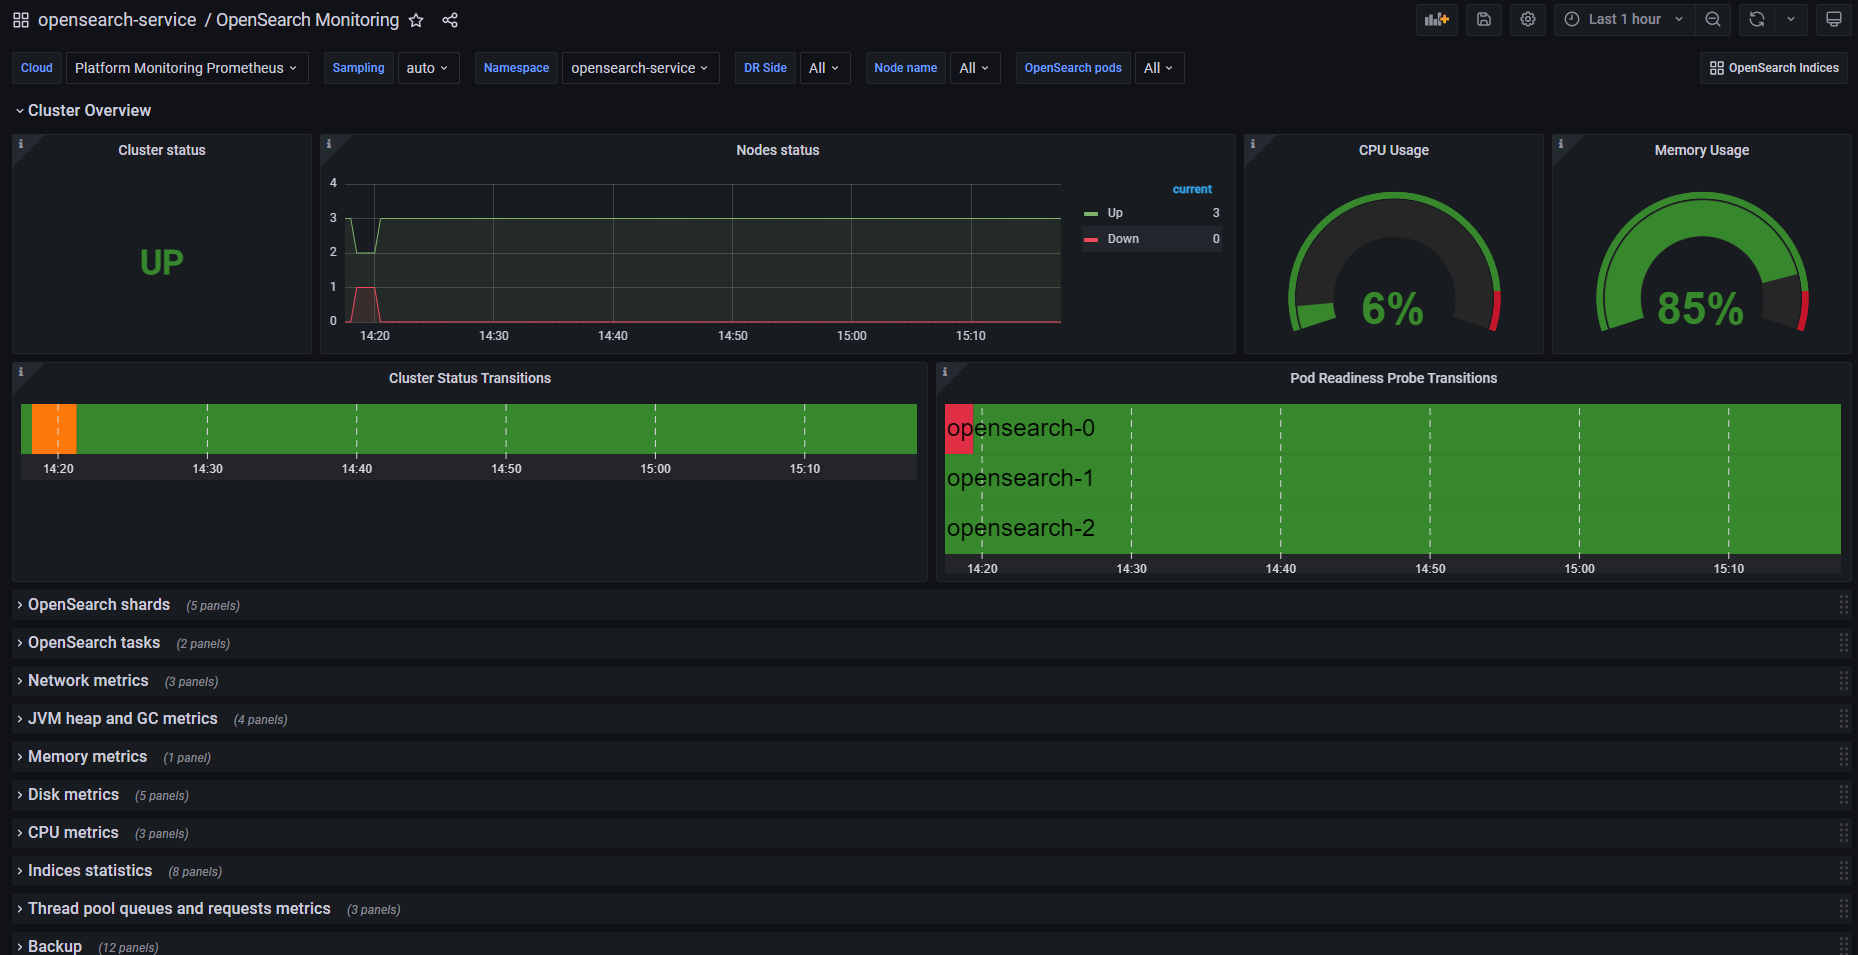
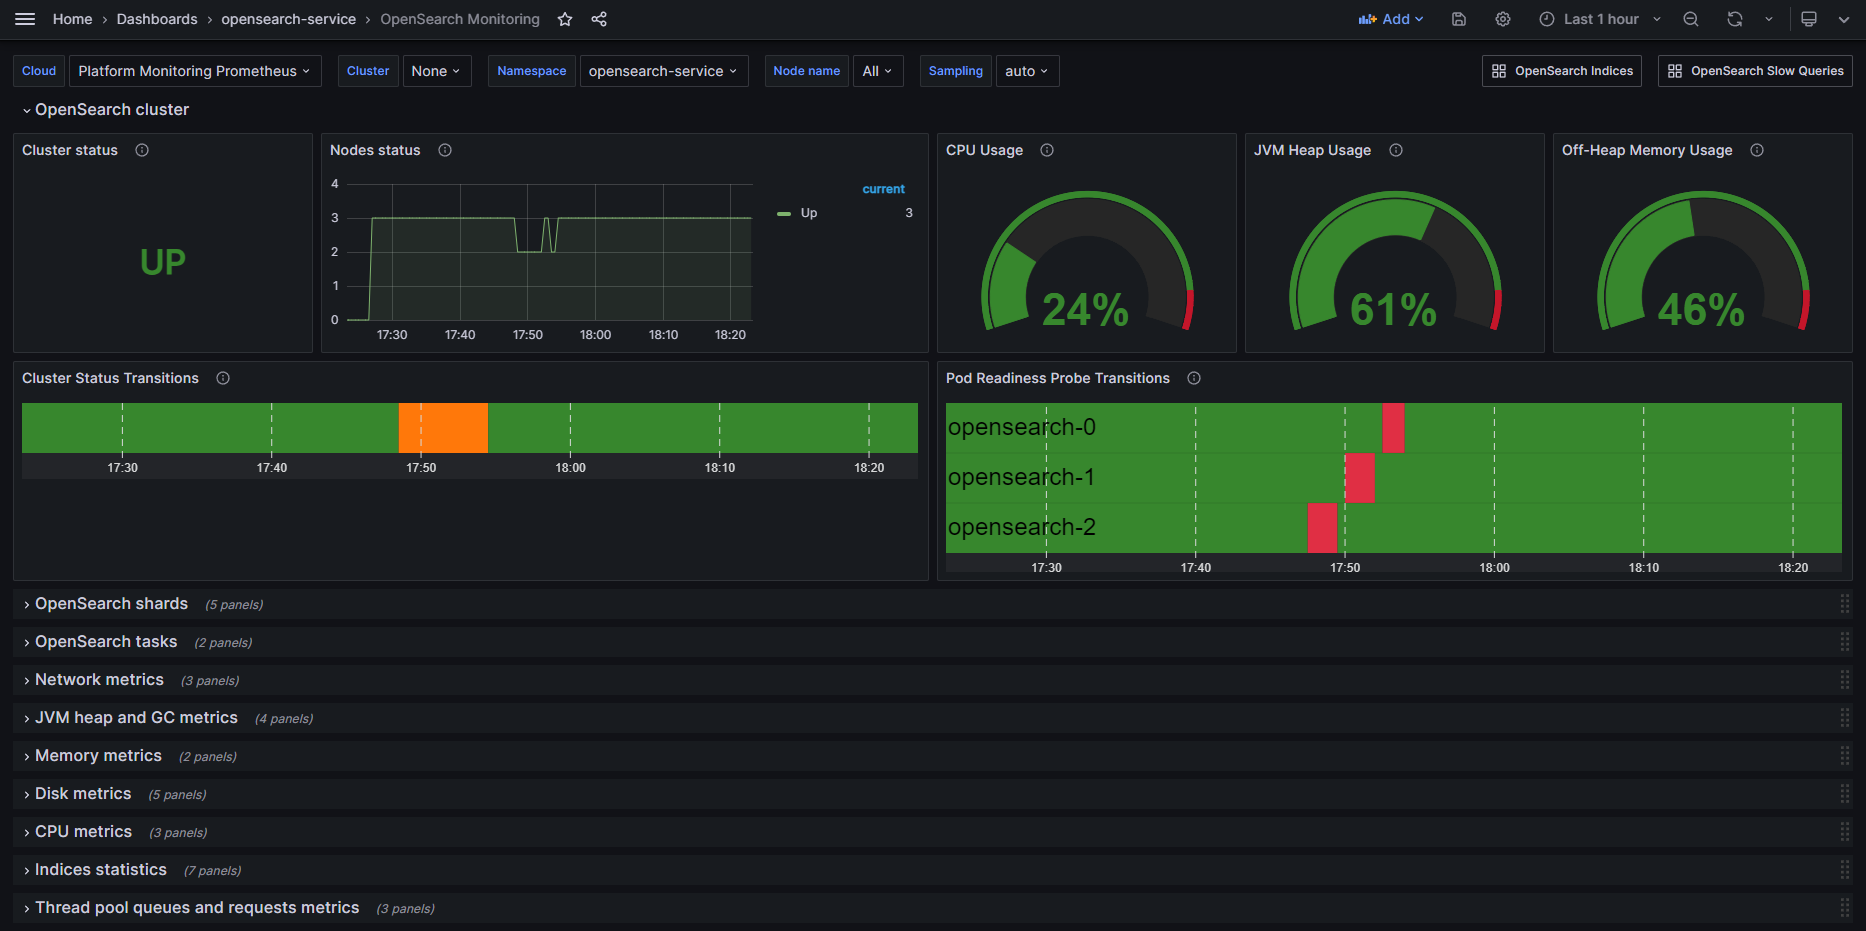
Remove MemoryUsageAlert and add new panels

diff --git a/docs/public/monitoring.md b/docs/public/monitoring.md
@@ -44,7 +44,8 @@ the last metric value is used.
     * You will be blocked from indexing into that shard.
 * `Nodes Status` - Status of OpenSearch nodes.
 * `CPU Usage` - The maximum current CPU usage (in percent) among all OpenSearch servers.
-* `Memory Usage` - The maximum current memory usage (in percent) among all OpenSearch servers.
+* `JVM Heap Usage` - The maximum current JVM heap memory usage (in percent) among all OpenSearch servers.
+* `Off-Heap Memory Usage` - The maximum memory usage excluding allocated JVM Heap memory.
 * `Cluster Status Transitions` - The transitions of OpenSearch cluster statuses.
 * `Pod Readiness Probe Transitions` - The transitions of readiness probes for each OpenSearch pod.
 
@@ -149,6 +150,8 @@ The following is a list of scenarios related to JVM Heap:
 
 * `OS memory usage` - The usage of memory by each OpenSearch node and its limit. These metric is
   useful to avoid reaching the memory limit on nodes.
+* `Off-heap memory usage` - The usage of memory excluding allocated JVM Heap memory by each OpenSearch node and its limit. 
+  This amount of memory is used by operating system and Apache Lucene.
 
 **Disk Metrics**
 
@@ -448,7 +451,6 @@ This section describes Prometheus monitoring alerts.
 | OpenSearchDiskUsageAbove75%Alert               | OpenSearch's disk usage is above 75%                                    | 3m  | warning  | `1 - sum(opensearch_fs_total_free_in_bytes{namespace="opensearch-service"}) / sum(opensearch_fs_total_total_in_bytes{namespace="opensearch-service"}) > 0.75 <= 0.85`                                     | OpenSearch disk usage is above 75%                  | [OpenSearchDiskUsageAbove75%Alert](/docs/public/troubleshooting.md#opensearchdiskusageabove75alert)                              |
 | OpenSearchDiskUsageAbove85%Alert               | OpenSearch's disk usage is above 85%                                    | 3m  | high     | `1 - sum(opensearch_fs_total_free_in_bytes{namespace="opensearch-service"}) / sum(opensearch_fs_total_total_in_bytes{namespace="opensearch-service"}) > 0.85 <= 0.95`                                     | OpenSearch disk usage is above 85%                  | [OpenSearchDiskUsageAbove85%Alert](/docs/public/troubleshooting.md#opensearchdiskusageabove85alert)                              |
 | OpenSearchDiskUsageAbove95%Alert               | OpenSearch's disk usage is above 95%                                    | 3m  | critical | `1 - sum(opensearch_fs_total_free_in_bytes{namespace="opensearch-service"}) / sum(opensearch_fs_total_total_in_bytes{namespace="opensearch-service"}) > 0.95`                                             | OpenSearch disk usage is above 95%                  | [OpenSearchDiskUsageAbove95%Alert](/docs/public/troubleshooting.md#opensearchdiskusageabove95alert)                              |
-| OpenSearchMemoryUsageAlert                     | OpenSearch's memory usage is above 95%                                  | 3m  | high     | `max(container_memory_working_set_bytes{namespace="opensearch-service", container="opensearch"}) / max(container_spec_memory_limit_bytes{namespace="opensearch-service", container="opensearch"}) > 0.95` | OpenSearch memory usage is above 95%.               | [OpenSearchMemoryUsageAlert](/docs/public/troubleshooting.md#opensearchmemoryusagealert)                                         |
 | OpenSearchHeapMemoryUsageAlert                 | OpenSearch's heap memory usage is above 95%                             | 3m  | high     | `max(opensearch_jvm_mem_heap_used_percent{namespace="opensearch-service"}) > 95`                                                                                                                          | OpenSearch heap memory usage is above 95%.          | [OpenSearchHeapMemoryUsageAlert](/docs/public/troubleshooting.md#opensearchheapmemoryusagealert)                                 |
 | OpenSearchIsDegradedAlert                      | Some of OpenSearch Service pods are down                                | 3m  | high     | `opensearch_cluster_health_status_code{namespace="opensearch-service"} == 6`                                                                                                                              | OpenSearch is Degraded.                             | [OpenSearchIsDegradedAlert](/docs/public/troubleshooting.md#opensearchisdegradedalert)                                           |
 | OpenSearchIsDownAlert                          | All of OpenSearch Service pods are down                                 | 3m  | high     | `opensearch_cluster_health_status_code{namespace="opensearch-service"} == 10`                                                                                                                             | OpenSearch is Down.                                 | [OpenSearchIsDownAlert](/docs/public/troubleshooting.md#opensearchisdownalert)                                                   |

diff --git a/.gitlab/merge_request_templates/Default.md b/.gitlab/merge_request_templates/Default.md
@@ -1,16 +1,27 @@
-_The template is a recommendation for MR formatting. In some cases not all parts of the template are needed, and they can be removed from MR description_.
-
 ## What for is that MR?
-_Problem description_
+_Short task description: problem, root cause. Feature description and acceptance criteria if it is necessary_.
 
-## What does this MR do?
-_Solution description_
+## Implementation details
+_Specify solution idea, how and where it is implemented_.
+
+## Test cases
+_Specify test cases that were used._
+
+_Include successful build or/and deploy links if necessary (e.g. build or/and deploy jobs are part of the test cases)._
+
+_If you have a lot of cases then use expand block below, remove it otherwise_
+<details>
+<summary><i>Click to see all cases</i></summary>
+_Place test cases here_.
+</details>
+
+## Review plan
+_Specify the bearing points (files, lines) of your solution. Points order should reflect the work of the solution_.
 
 ## Are there points in the code the reviewer needs to double-check?
-_Specify any point to pay attention on_
+_Specify any point to pay attention on_.
 
 ## Does this MR meet the acceptance criteria?
-
 - [ ] Tests
     - [ ] New tests are added on this bug\feature
     - [ ] All existing tests are passing
@@ -23,7 +34,5 @@ _Specify any point to pay attention on_
 - [ ] MR labels are specified
 
 ## Related Information
-
-Ticket: _Ticket-ID_
-
-Upsource Review: _link_ (if relevant)
+- Ticket: _Ticket-ID_
+- Cloud: _Cloud-link_

diff --git a/docs/public/troubleshooting.md b/docs/public/troubleshooting.md
@@ -141,40 +141,6 @@ For more information, refer to [Data Nodes are Out of Space](#data-nodes-are-out
 1. Increase disk space for OpenSearch if it's possible.
 2. If all the data nodes are running low on disk space or some disks are failed, add more data nodes to the cluster.
 
-## OpenSearchMemoryUsageAlert
-
-### Description
-
-One of OpenSearch pods uses 95% of the memory limit.
-
-For more information, refer to [Memory Limit](troubleshooting-scenarios/memory_limit.md).
-
-### Possible Causes
-
-- Insufficient memory resources allocated to OpenSearch pods.
-- Heavy workload during execution.
-
-### Impact
-
-- Potential out-of-memory errors and OpenSearch cluster instability.
-- Degraded performance of services used the OpenSearch.
-
-### Actions for Investigation
-
-1. Get the statistics of the cluster nodes using the following command:
-
-   ```
-   curl -X GET 'http://localhost:9200/_nodes/stats/'
-   ```
-
-2. Monitor the memory usage trends in OpenSearch monitoring dashboard.
-3. Review OpenSearch logs for memory related errors.
-
-### Recommended Actions to Resolve Issue
-
-1. Try to increase memory request, memory limit and heap size for OpenSearch.
-2. Add data nodes to redistribute the load.
-
 ## OpenSearchHeapMemoryUsageAlert
 
 ### Description

diff --git a/.gitlab/merge_request_templates/Lightweight.md b/.gitlab/merge_request_templates/Lightweight.md
@@ -1,0 +1,5 @@
+## What for is that MR?
+_Problem & solution description_.
+
+## Related Information
+- Ticket: _Ticket-ID_
